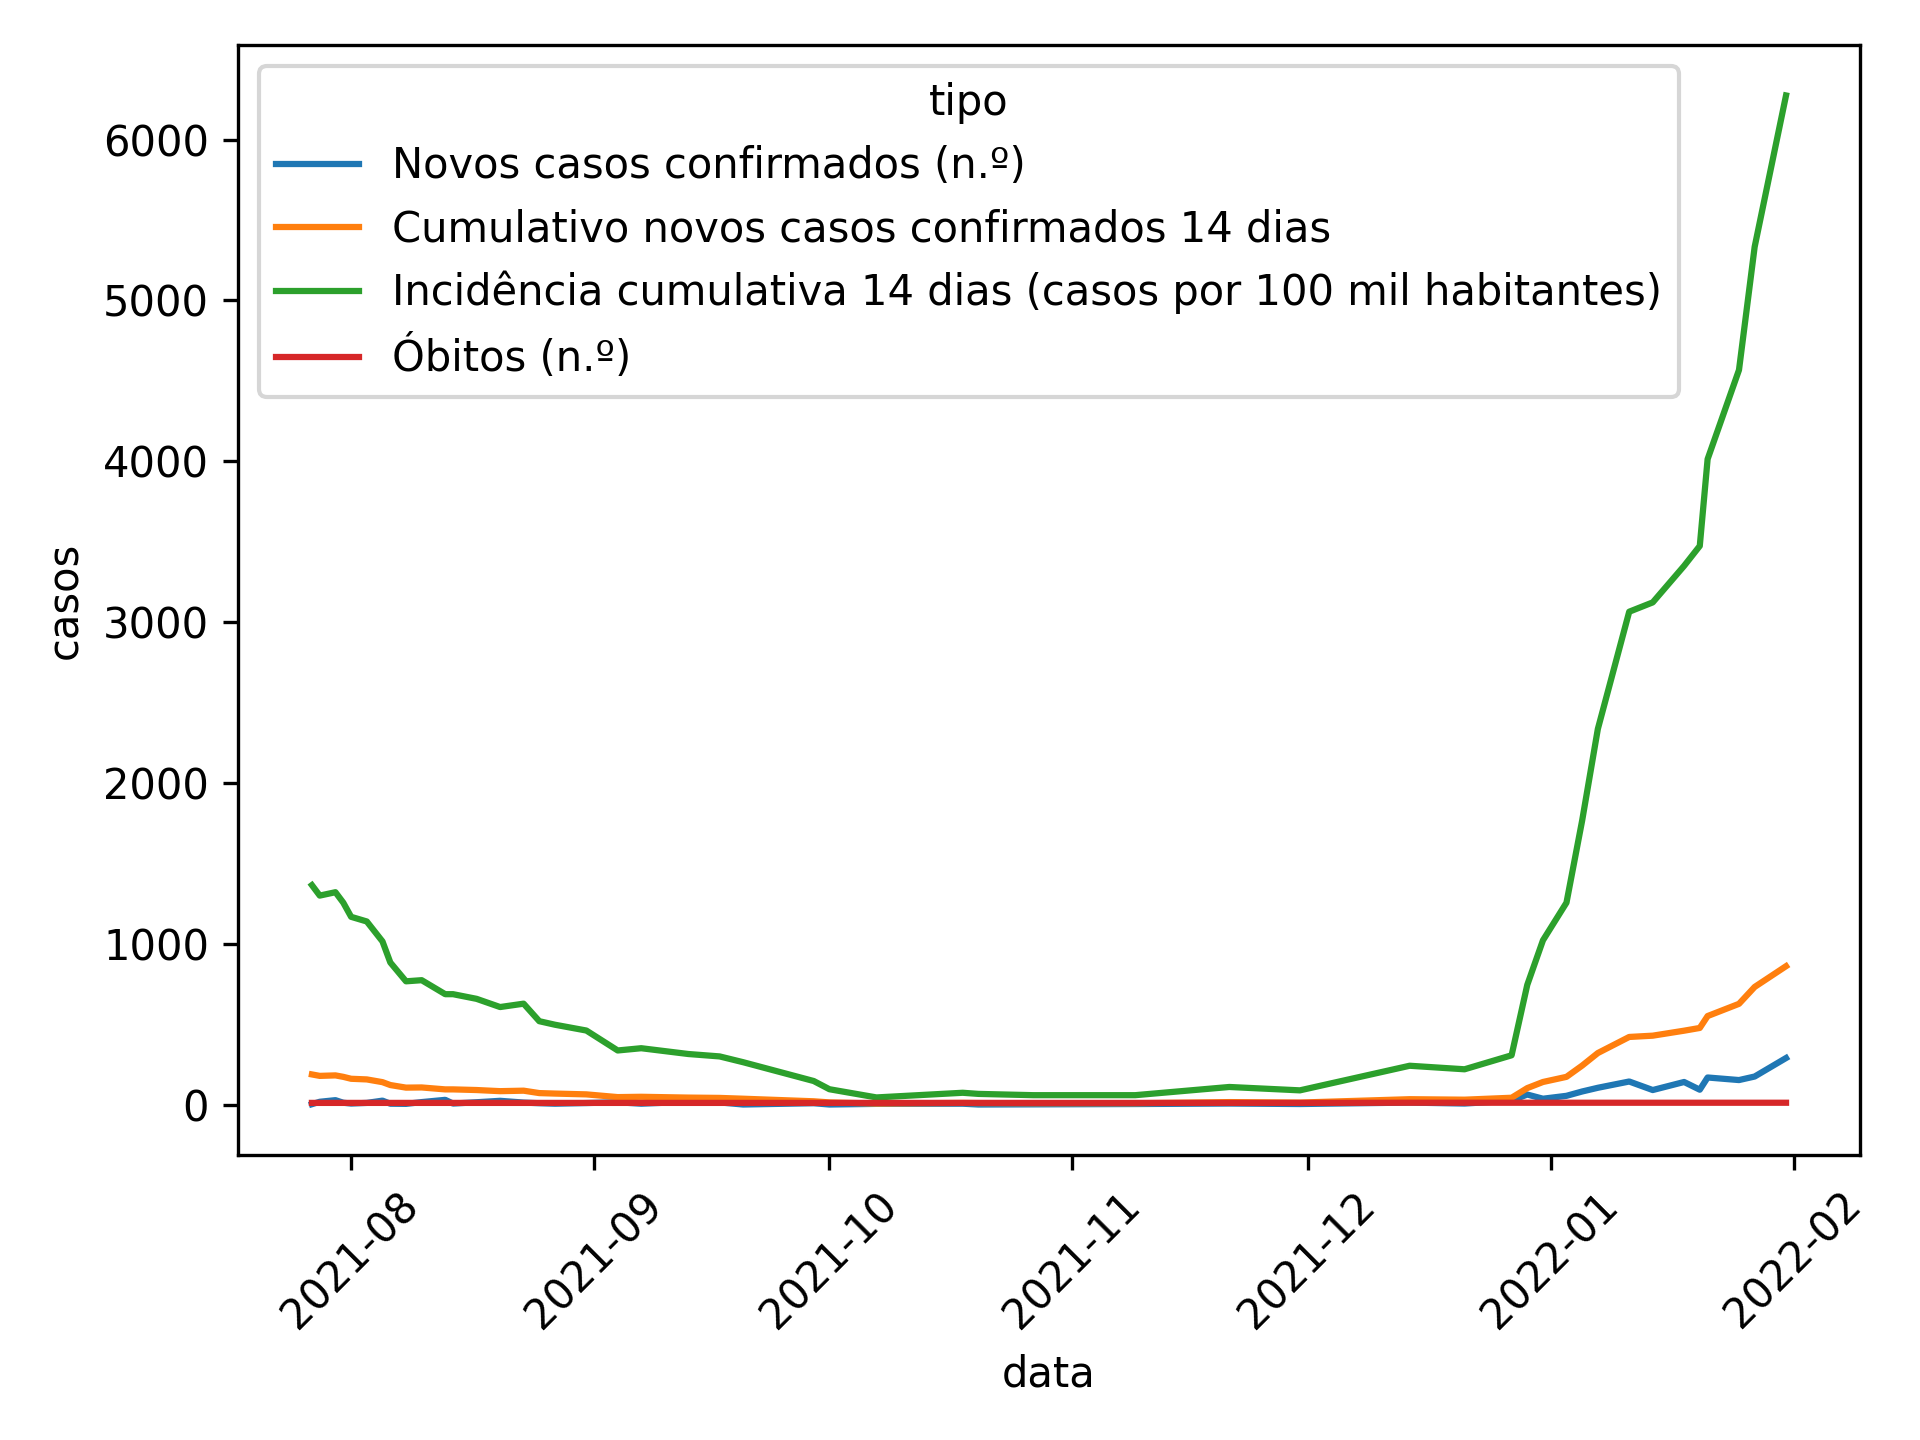
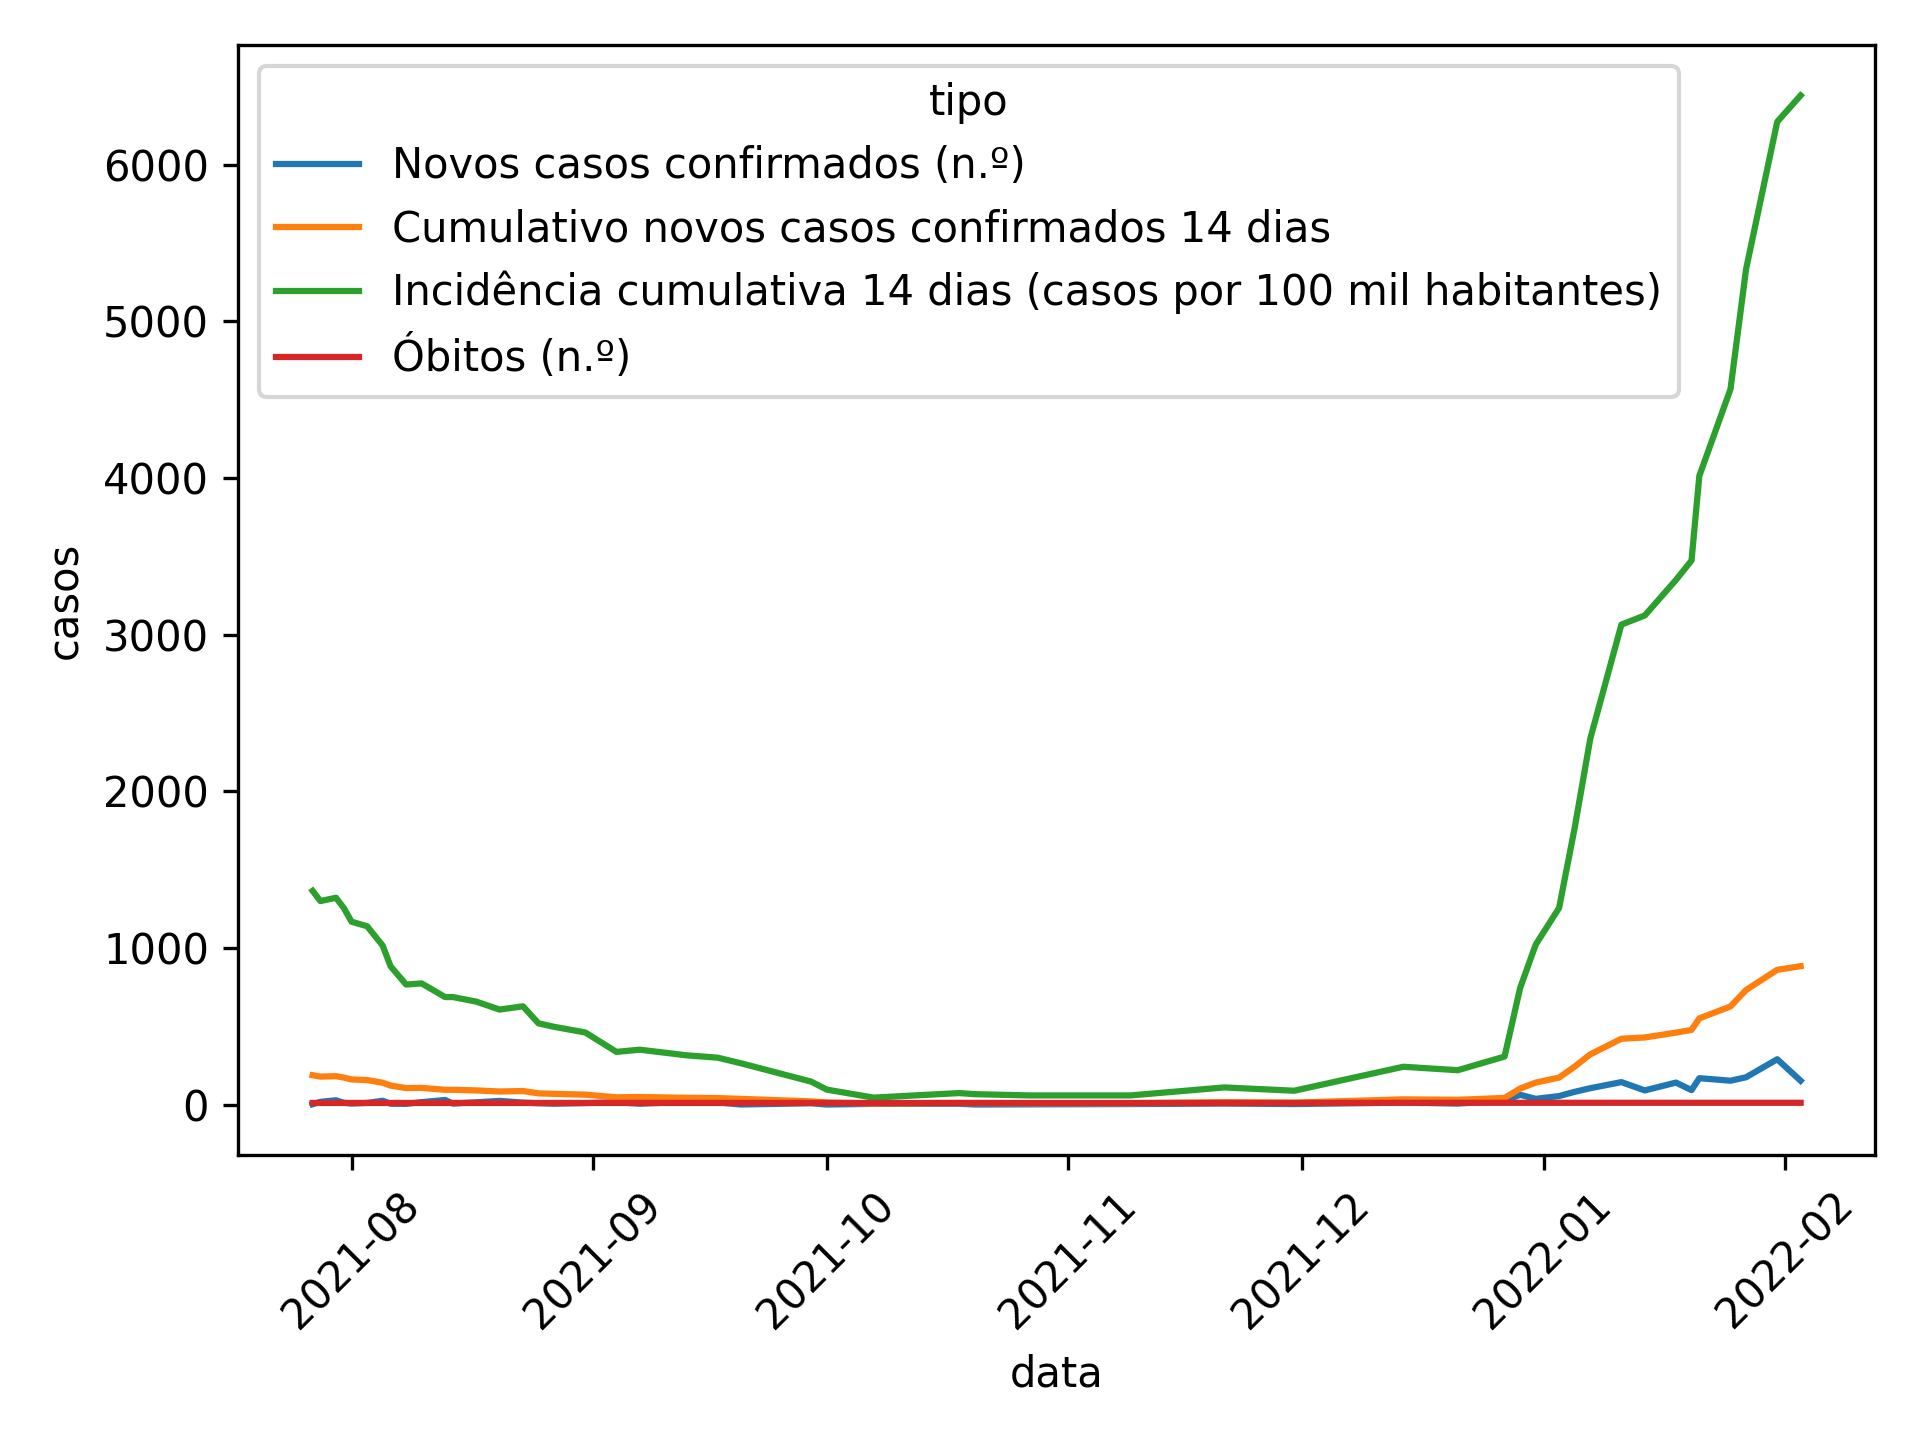
Apply automatic changes

diff --git a/README.md b/README.md
@@ -6,7 +6,6 @@
 
 | data       |   Novos casos confirmados (n.º) |   Cumulativo novos casos confirmados 14 dias |   Incidência cumulativa 14 dias (casos por 100 mil habitantes) |   Óbitos (n.º) |   Casos ativos (n.º) |   Vigilâncias ativas (n.º) |
 |:-----------|--------------------------------:|---------------------------------------------:|---------------------------------------------------------------:|---------------:|---------------------:|---------------------------:|
-| 21-12-2021 |                               6 |                                           30 |                                                            219 |             11 |                   10 |                         28 |
 | 27-12-2021 |                              24 |                                           42 |                                                            306 |             11 |                   21 |                         39 |
 | 29-12-2021 |                              62 |                                          102 |                                                            744 |             11 |                   69 |                        123 |
 | 31-12-2021 |                              36 |                                          140 |                                                           1021 |             11 |                   87 |                        126 |
@@ -21,3 +20,4 @@
 | 25-01-2022 |                             152 |                                          626 |                                                           4567 |             11 |                  nan |                        nan |
 | 27-01-2022 |                             174 |                                          731 |                                                           5333 |             11 |                  nan |                        nan |
 | 31-01-2022 |                             289 |                                          860 |                                                           6274 |             11 |                  nan |                        nan |
+| 03-02-2022 |                             152 |                                          883 |                                                           6442 |             11 |                  nan |                        nan |
